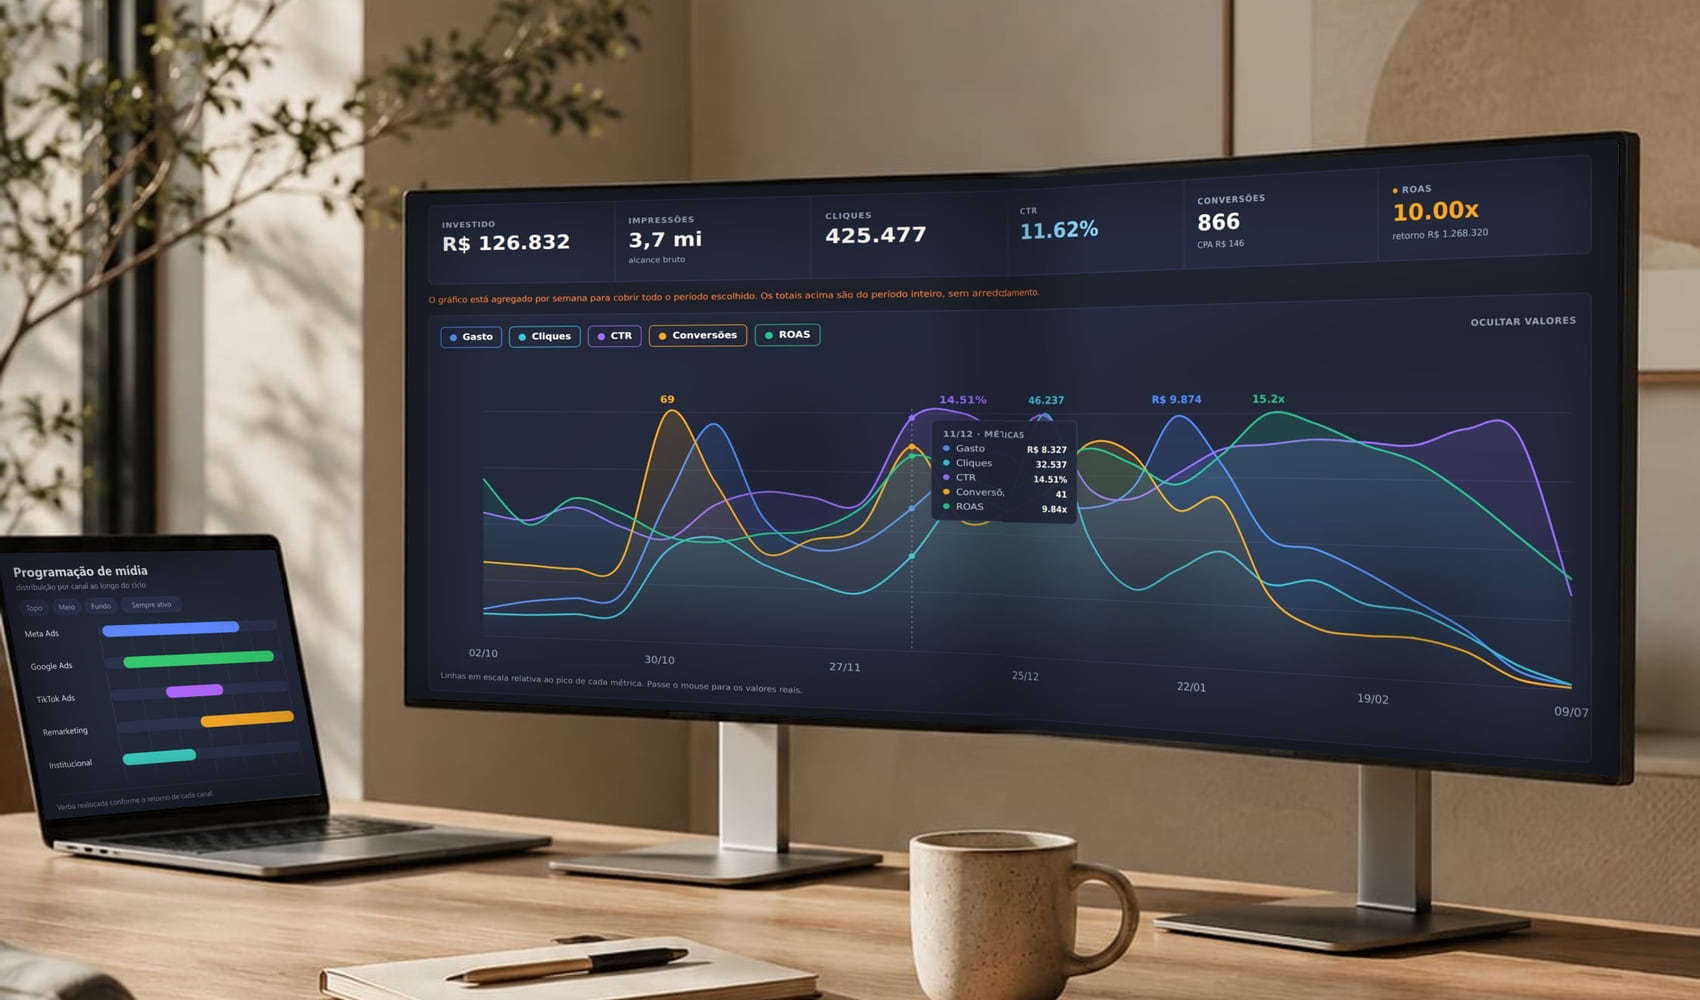
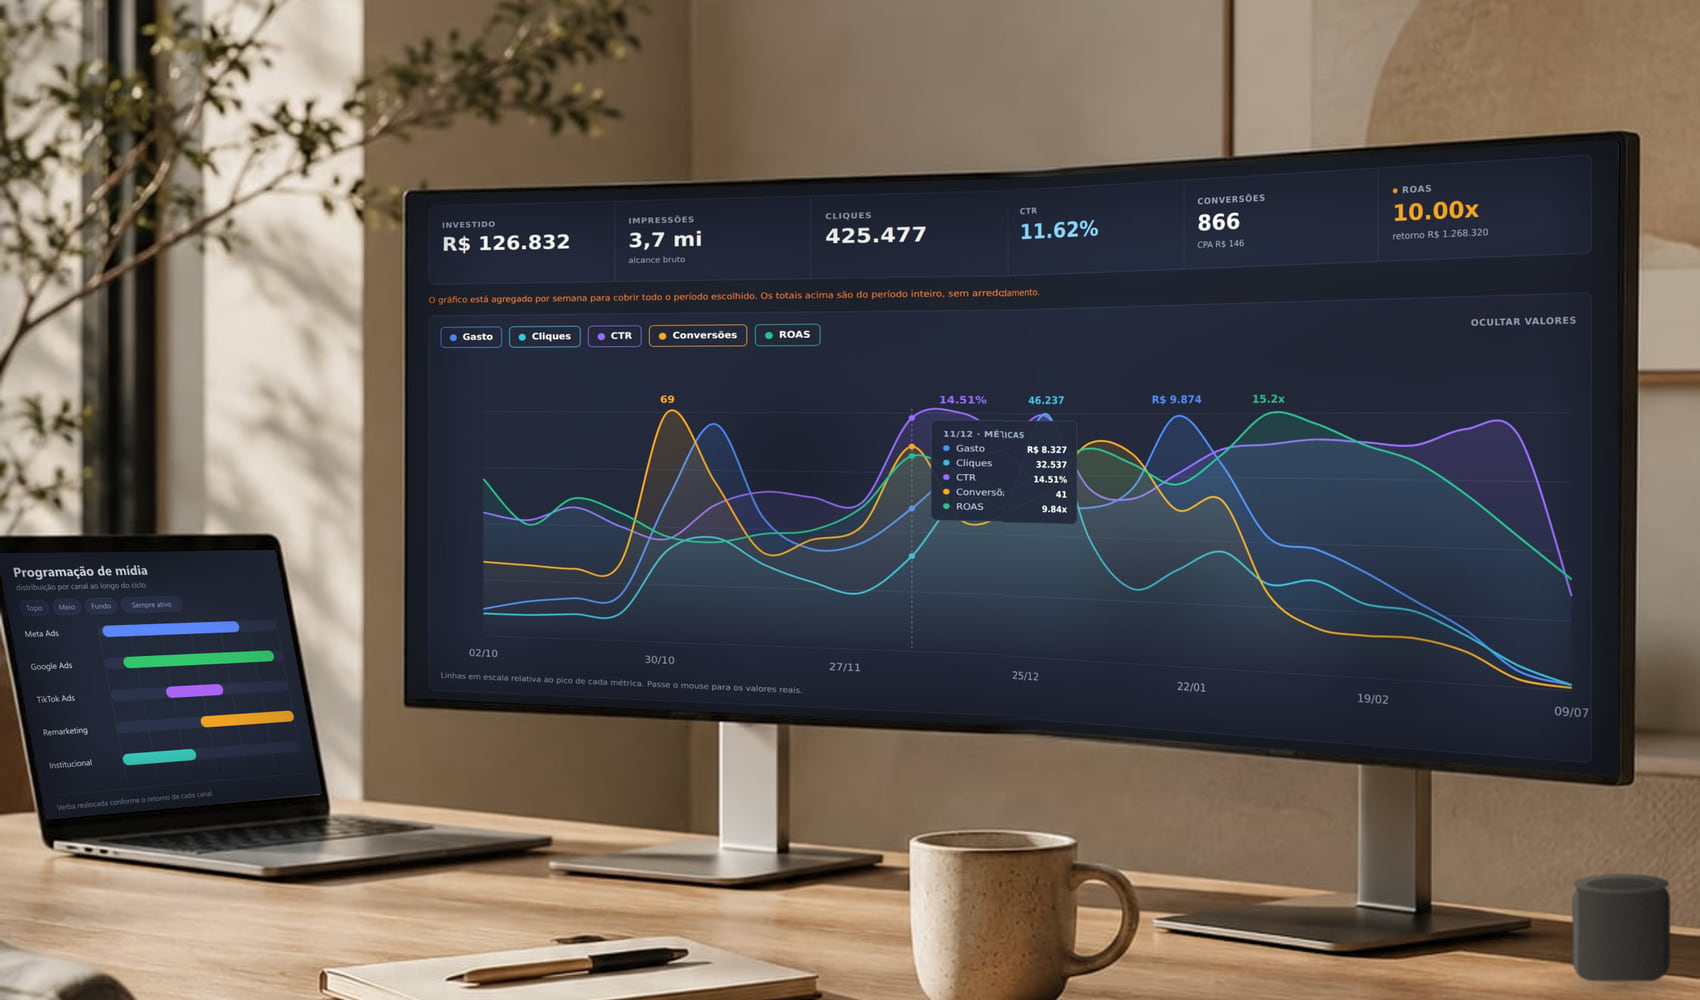
fix(hero): tira o escurecimento do centro da tela e poe a caixa de som
O risco escuro no meio do painel tinha causa boba: o mapa de
iluminacao sai da propria foto borrada, e na foto ainda existia a
moldura preta entre os dois monitores. Ela some na composicao, mas
continuava no mapa, escurecendo o conteudo exatamente ali. Agora essa
faixa e apagada do mapa antes do borrao. Medido antes e depois: a
luminancia atravessando a emenda ia de 38 pra 32 e voltava; agora fica
em 41 do começo ao fim, e o centro ficou um pouco mais claro de quebra.

Entrou tambem uma caixa de som na mesa, à direita. Ela e desenhada, nao
fotografada, entao leva desfoque e grao de proposito: objeto desenhado
entra mais limpo e mais nitido que a foto em volta, e e isso que
denuncia montagem. Tem sombra de contato pra nao flutuar.

O pe central continua pendente. Tentei de novo e o resultado foi pior
que o problema: apagar as duas bases e a caneca exige reconstruir a
madeira embaixo, e o transplante de textura trouxe o caderno junto.

Changed region(s): [[0.9041, 0.868, 0.9976, 1.0]]

diff --git a/src/content/site.ts b/src/content/site.ts
@@ -130,7 +130,7 @@ export const siteContent: SiteContent = {
     ],
     figure: {
       imageUrl: HERO_IMAGE,
-      imageAlt: "Estação de trabalho com um monitor ultrawide exibindo o painel de performance de mídia, com R$ 126.832 investidos e ROAS de 10x, e um notebook ao lado com a programação de mídia por canal",
+      imageAlt: "Estação de trabalho com um monitor ultrawide exibindo o painel de performance de mídia, com R$ 126.832 investidos e ROAS de 10x, um notebook ao lado com a programação de mídia por canal e uma caixa de som sobre a mesa",
     },
   },
 
